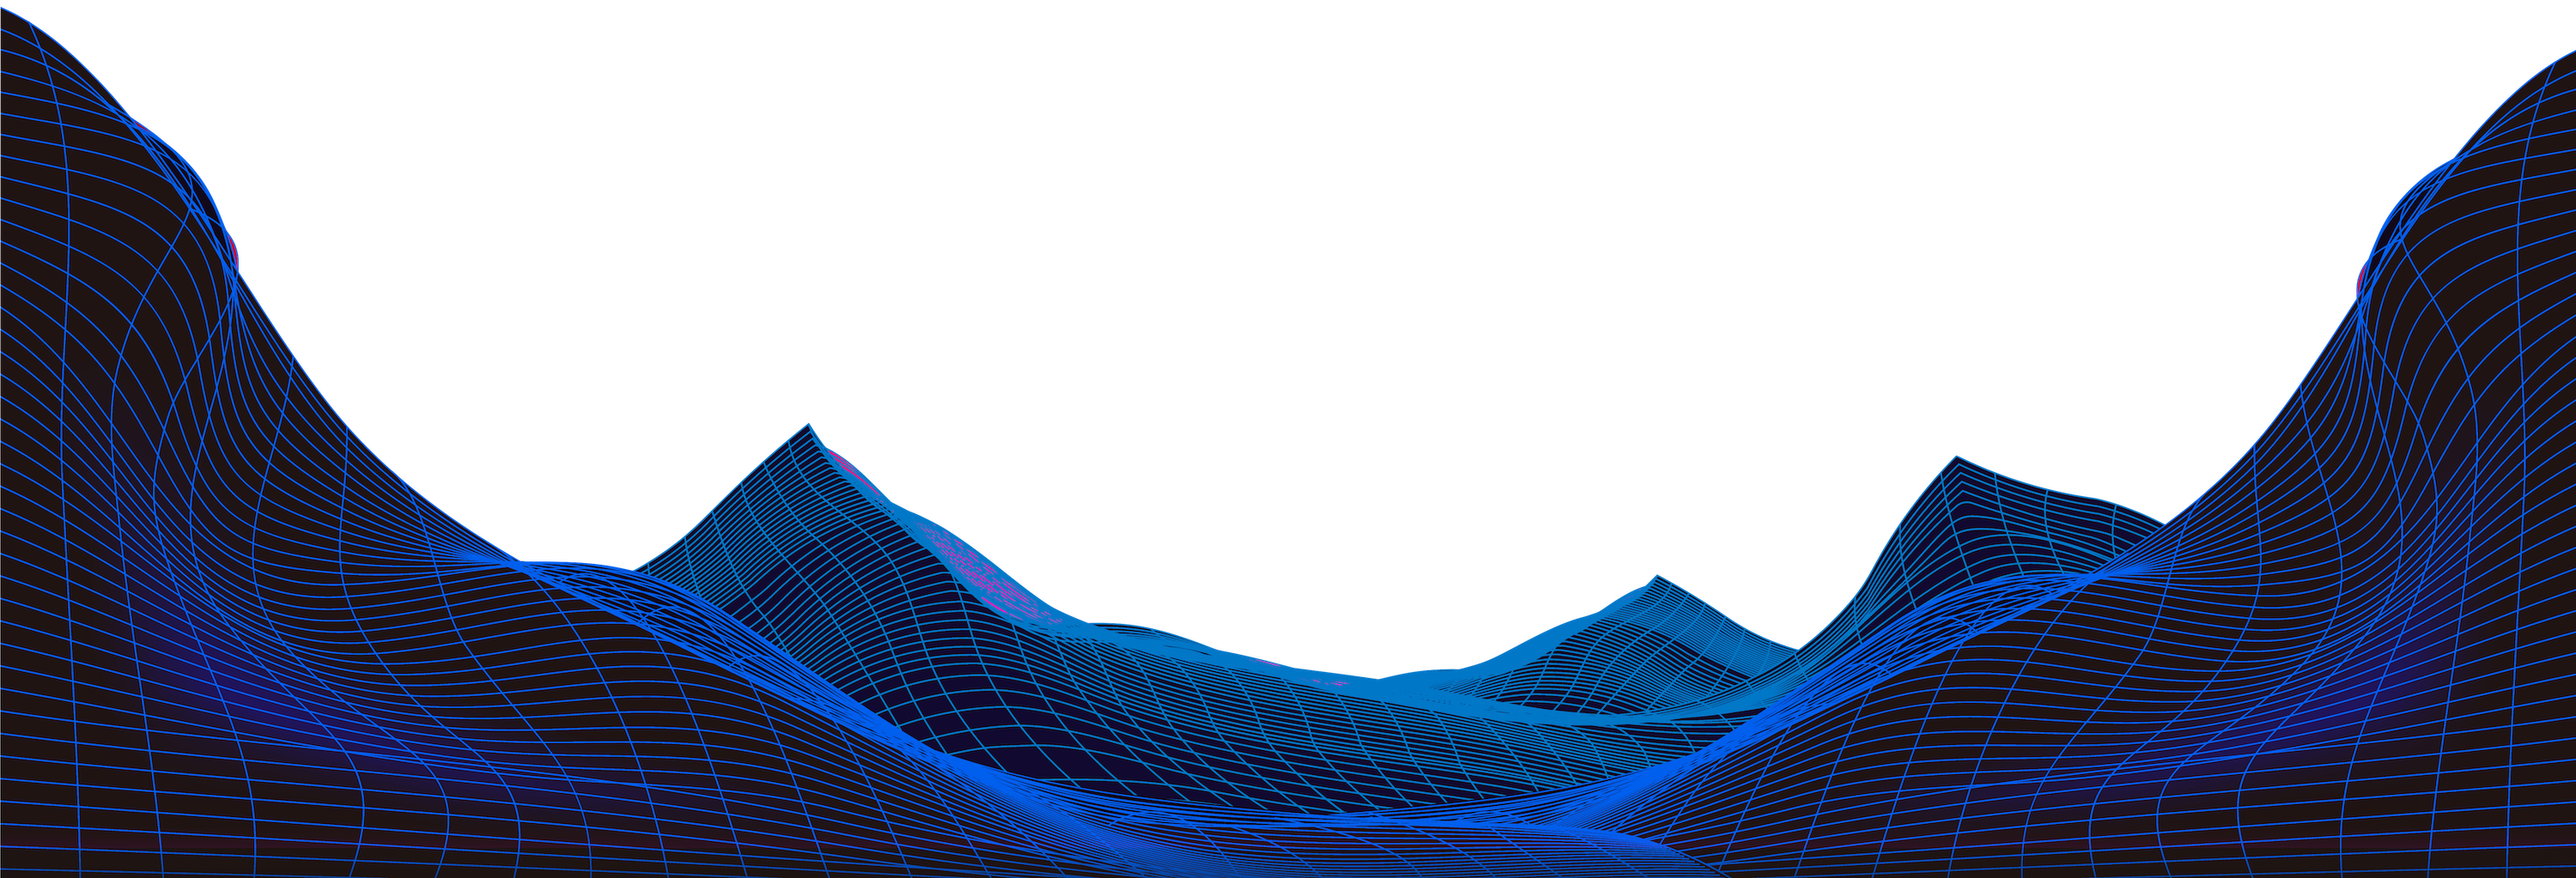
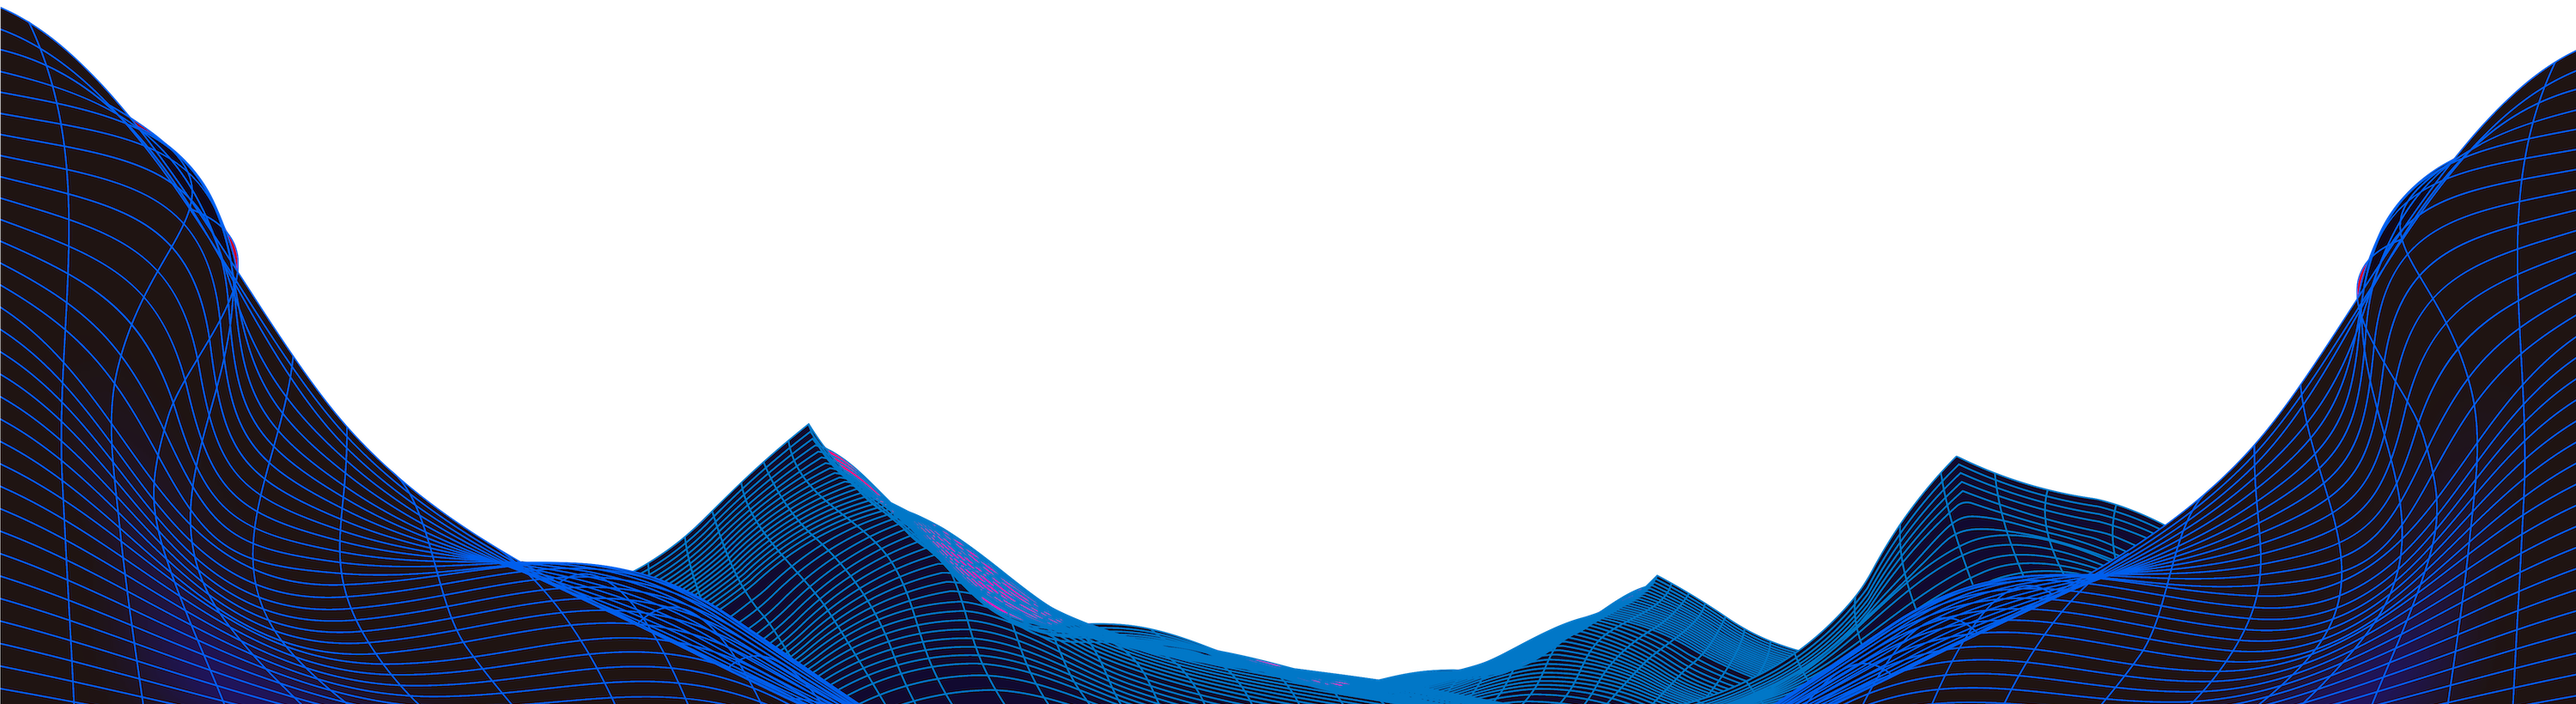
01C: Task 8: Improved mountain sizing

diff --git a/js/01C/rendering/Wallpaper.js b/js/01C/rendering/Wallpaper.js
@@ -35,12 +35,9 @@ export class Wallpaper {
         this.mountainEnabled = options.mountainEnabled !== false; // Enabled by default
         this.mountainImage = null;
         this.mountainLoaded = false;
-        this.mountainWidth = options.mountainWidth || 1800; // Width in pixels (increased for visibility)
-        this.mountainHeight = options.mountainHeight || 614; // Height in pixels (calculated from 3000x1023 ratio: 1800 * (1023/3000) ≈ 614)
+        this.mountainAspectRatio = 3000 / 1023; // Original image aspect ratio (width/height)
         this.mountainGlow = options.mountainGlow || 150; // Glow blur radius (increased for visibility)
         this.mountainBaseX = options.mountainBaseX || 0.5; // Relative position (0-1, 0.5 = centered)
-        this.mountainBaseY = options.mountainBaseY || 0.40; // Relative position (0-1, closer to sun)
-        this.mountainYOffset = options.mountainYOffset || -50; // Vertical offset in pixels (negative = move up)
         this.mountainParallaxFactor = options.mountainParallaxFactor || 0.6; // More parallax than sun (increased from 0.5)
 
         // Galaxy/Aurora gradient settings
@@ -446,23 +443,36 @@ export class Wallpaper {
 
         // Draw the mountain AFTER sun (in front of sun) - with more parallax
         if (this.mountainEnabled && this.mountainLoaded && this.mountainImage) {
-            // Calculate mountain position (center point)
-            let mountainX = this.mountainBaseX * ctx.canvas.width;
-            let mountainY = this.mountainBaseY * ctx.canvas.height + this.mountainYOffset;
-            let mountainHalfWidth = this.mountainWidth / 2;
-            let mountainHalfHeight = this.mountainHeight / 2;
+            // Calculate mountain scale based on viewport width
+            // Mobile portrait (~400px): 2.0x (200%)
+            // Desktop (>1200px): 1.1x (110%)
+            // Linear interpolation between these points
+            let mountainScale;
+            if (ctx.canvas.width <= 400) {
+                mountainScale = 2.0;
+            } else if (ctx.canvas.width >= 1200) {
+                mountainScale = 1.1;
+            } else {
+                // Linear interpolation between 400px->2.0 and 1200px->1.1
+                const t = (ctx.canvas.width - 400) / (1200 - 400);
+                mountainScale = 2.0 + t * (1.1 - 2.0);
+            }
 
-            // Apply parallax to mountain position (more than sun)
+            const mountainWidth = ctx.canvas.width * mountainScale;
+            const mountainHeight = mountainWidth / this.mountainAspectRatio;
+
+            // Position mountain so its bottom edge is at the horizon (cutoffY)
+            // The Y coordinate represents the bottom of the mountain
+            let mountainBottomY = cutoffY;
+            let mountainX = this.mountainBaseX * ctx.canvas.width;
+
+            // Apply horizontal parallax to mountain position
             if (camera) {
                 const camPos = camera.getPosition();
                 mountainX += camPos.x * this.mountainParallaxFactor * 0.5;
-                mountainY -= camPos.y * this.mountainParallaxFactor;
-                const angleDegrees = camPos.angle !== undefined ? camPos.angle : 45;
-                const angleOffset = (angleDegrees - 45) * 2;
-                mountainY -= angleOffset * this.mountainParallaxFactor;
             }
 
-            // Draw the mountain (always draw for now, clipping will handle horizon)
+            // Draw the mountain
             ctx.save();
 
             // Clip to horizon if needed
@@ -478,13 +488,15 @@ export class Wallpaper {
                 ctx.shadowColor = '#4060ff'; // More blue glow
             }
 
-            // Draw mountain image centered at calculated position
+            // Draw mountain image with bottom edge at horizon
+            // drawImage parameters: image, x, y, width, height
+            // We want bottom at mountainBottomY, so top is at mountainBottomY - mountainHeight
             ctx.drawImage(
                 this.mountainImage,
-                mountainX - mountainHalfWidth,
-                mountainY - mountainHalfHeight,
-                this.mountainWidth,
-                this.mountainHeight
+                mountainX - (mountainWidth / 2),
+                mountainBottomY - mountainHeight,
+                mountainWidth,
+                mountainHeight
             );
 
             ctx.restore();
